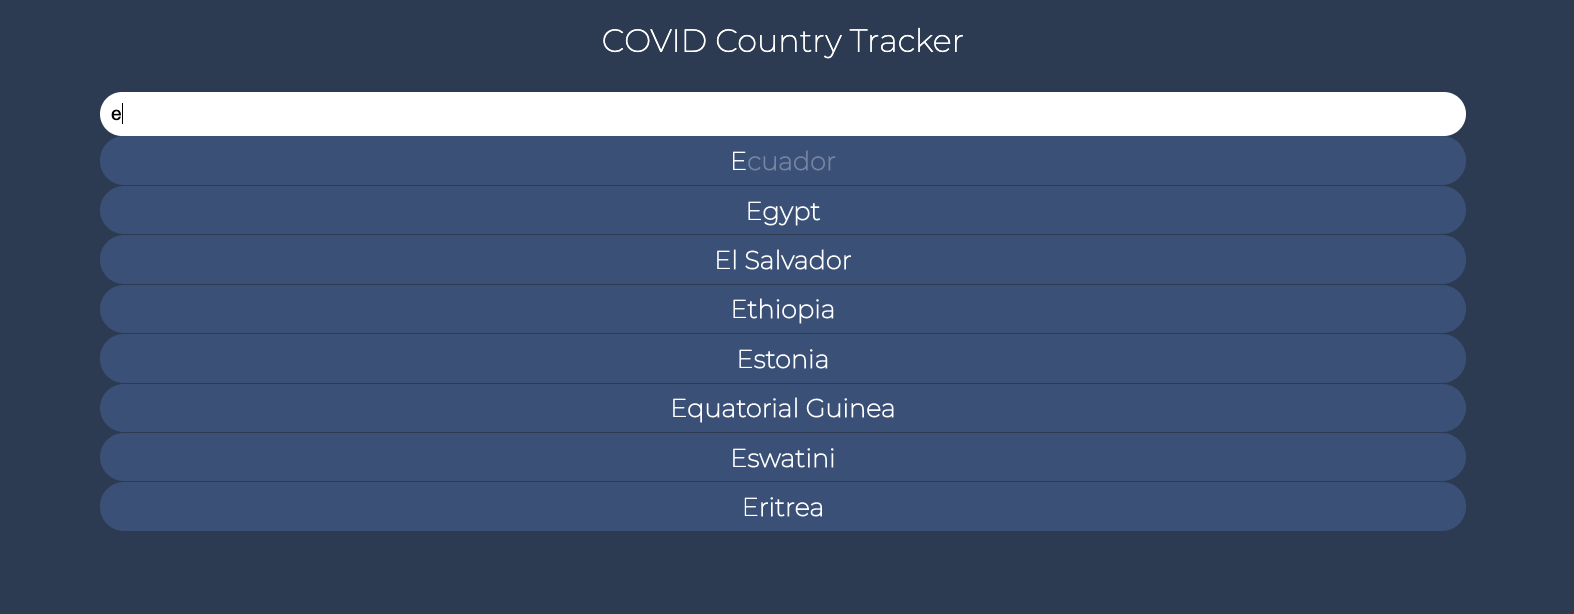
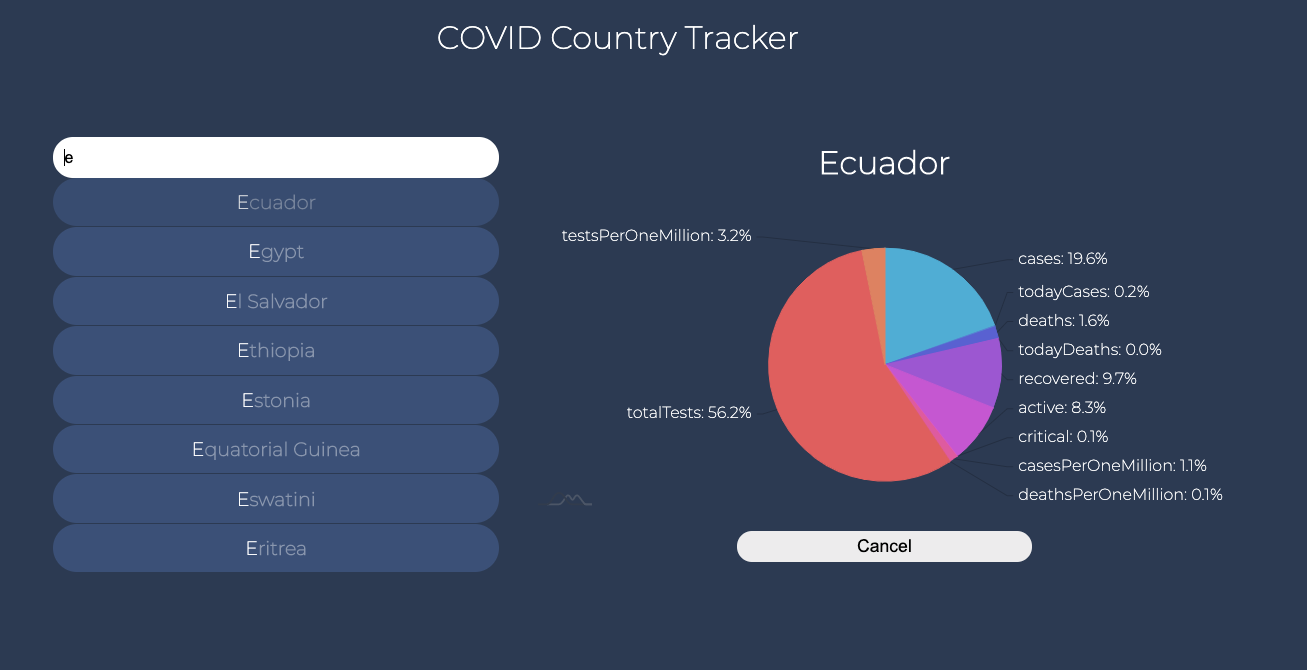
readme update

diff --git a/client/src/pages/Chart/Chart.js b/client/src/pages/Chart/Chart.js
@@ -1,4 +1,4 @@
-import React, { useEffect } from "react";
+import React, { useState, useEffect } from "react";
 import * as am4core from "@amcharts/amcharts4/core";
 import * as am4charts from "@amcharts/amcharts4/charts";
 import am4themes_animated from "@amcharts/amcharts4/themes/animated";
@@ -9,10 +9,13 @@ am4core.useTheme(am4themes_animated);
 am4core.color("#ff0000");
 
 const Chart = ({ countryInfo, setOpen, open }) => {
+  const [countryName, setCountryName] = useState(null);
   const handleRefactor = () => {
     let categories = Object.keys(countryInfo);
     categories.shift();
     let values = Object.values(countryInfo);
+    setCountryName(values[0]);
+
     values.shift();
     let chartArray = [];
 
@@ -43,10 +46,16 @@ const Chart = ({ countryInfo, setOpen, open }) => {
     pieSeries.tooltip.background.fill = am4core.color("white");
 
     //animation
+    //cleaup
+    return () => {
+      chart.data = null;
+      setCountryName(null);
+    };
   }, [countryInfo]);
 
   return (
     <Wrapper>
+      {countryName !== null && open && <h1>{countryName}</h1>}
       <StyledWrapper open={open} id="chartdiv" />
       <div style={{ display: "flex", justifyContent: "center" }}>
         {open && <button onClick={() => setOpen(false)}>Cancel</button>}
@@ -59,7 +68,12 @@ export default Chart;
 const Wrapper = styled.div`
   position: absolute;
   right: 5vw;
-  top: 20vh;
+  top: 14vh;
+
+  h1 {
+    color: white;
+    text-align: center;
+  }
 
   button {
     z-index: 1000;

diff --git a/README.md b/README.md
@@ -25,9 +25,6 @@ Go to the client directory. Run npm install/yarn install followed by npm start/y
 `Home`
 <img src="Screenshots/Home.png" alt="home">
 
-`Statistics`
-<img src="Screenshots/Stats.png" alt="stats">
-
 ### Prerequisites
 
 ```
